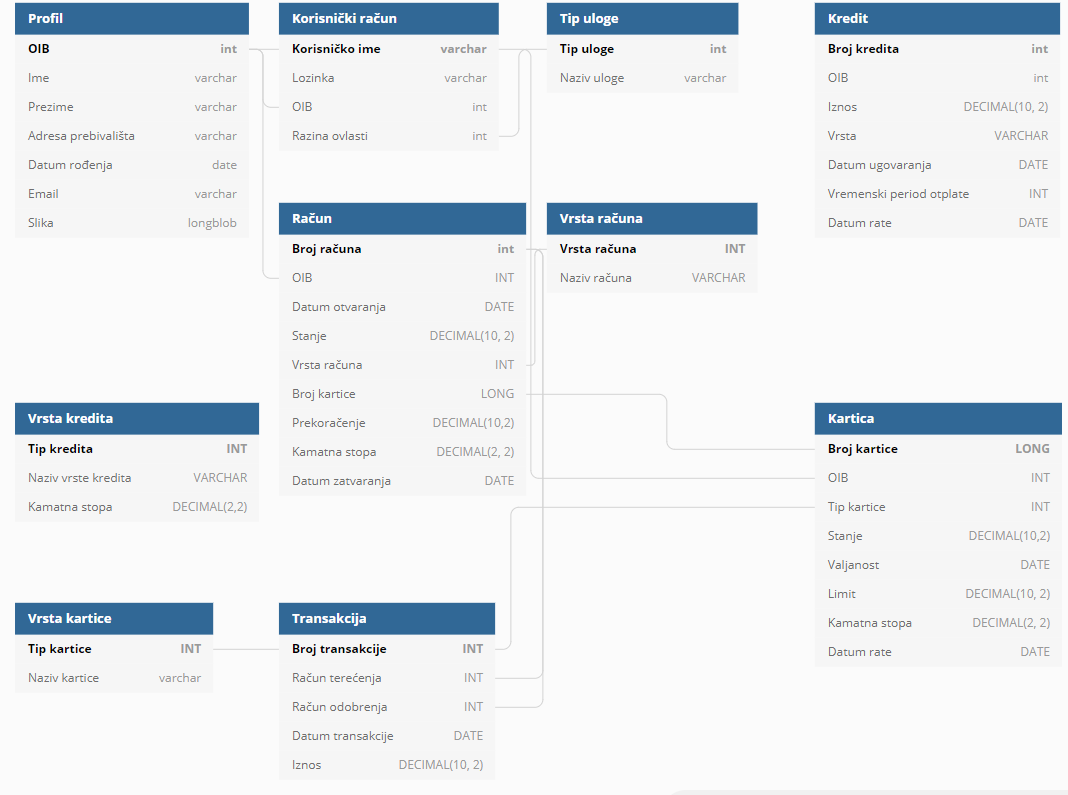
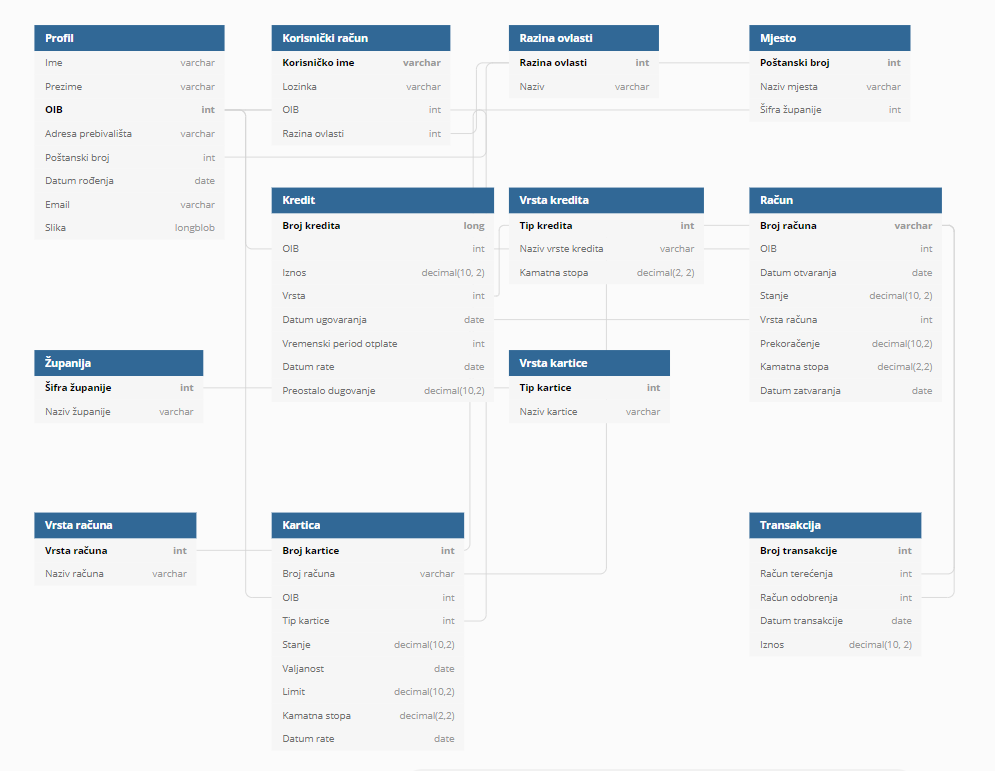
Izmijenjena baza podataka, dodane relacije mjesta i zupanije

diff --git a/dokumentacija/Arhitektura.tex b/dokumentacija/Arhitektura.tex
@@ -36,7 +36,7 @@
 			\subsection{Opis tablica}
 			
 
-				\textbf{Profil} Ovaj entitet sadrži sve važne informacije za pristup web aplikaciji. Sadrži atribute: ime, prezime, OIB, adresa prebivališta, datum rođenja, e-mail adresa i slika profila. Ovaj entitet u vezi je \textit{Zero-to-Many} s entitetom Korisnički račun preko OIB-a.  
+				\textbf{Profil} Ovaj entitet sadrži sve važne informacije za pristup web aplikaciji. Sadrži atribute: ime, prezime, OIB, adresa prebivališta, poštanski broj, datum rođenja, e-mail adresa i slika profila. Ovaj entitet u vezi je \textit{Zero-to-Many} s entitetom Korisnički račun preko OIB-a i u vezi je \textit{Many-to-One} sa entitetom Mjesto preko poštanskog broja.
 				
 				\begin{longtabu} to \textwidth {|X[6, l]|X[6, l]|X[20, l]|}
 					
@@ -53,6 +53,7 @@
 					Prezime	& VARCHAR &  prezime korisnika 	\\ \hline 
 					\rowcolor{lightgreen}OIB & INT &  OIB korisnika \\ \hline 
 					Adresa prebivališta & VARCHAR &   adresa korisnika      \\ \hline
+					Poštanski broj & INT & poštanski broj (mjesto.poštanskiBroj) \\ \hline
 					Datum rođenja & DATE & datum rođenja korisnika \\ \hline
 					Email & VARCHAR & e-mail adresa korisnika \\ \hline
 					Slika & LONGBLOB & slika korisnika \\ \hline
@@ -86,21 +87,21 @@
 	
 		
 			
-		\textbf{Tip uloge}  Ovaj entitet sadrži informacije vezane za tipove uloge. Sadrži atribute: broj tipa uloge i naziv uloge. Ovaj je entitet u vezi \textit{One-to-One} s entitetom Korisnički račun preko broja uloge.  
+		\textbf{Razina ovlasti}  Ovaj entitet sadrži informacije vezane za razinu ovlasti. Sadrži atribute: razina ovlasti i naziv. Ovaj je entitet u vezi \textit{One-to-One} s entitetom Korisnički račun preko razine ovlasti.  
 		
 		\begin{longtabu} to \textwidth {|X[6, l]|X[6, l]|X[20, l]|}
 			
-			\hline \multicolumn{3}{|c|}{\textbf{Tip uloge}}	 \\[3pt] \hline
+			\hline \multicolumn{3}{|c|}{\textbf{Razina ovlasti}}	 \\[3pt] \hline
 			\endfirsthead
 			
-			\hline \multicolumn{3}{|c|}{\textbf{Tip uloge}}	 \\[3pt] \hline
+			\hline \multicolumn{3}{|c|}{\textbf{Razina ovlasti}}	 \\[3pt] \hline
 			\endhead
 			
 			\hline 
 			\endlastfoot
 			
-		    Broj uloge & INT & Broj tipa uloge  \\ \hline
-			\cellcolor{LightGreen}Naziv & VARCHAR	& Naziv uloge	\\ \hline
+		    Razina ovlasti & INT & Broj razine ovlasti  \\ \hline
+			\cellcolor{LightGreen}Naziv & VARCHAR	& Naziv ovlasti	\\ \hline
 			
 			
 			
@@ -108,9 +109,51 @@
 			
 		\end{longtabu}
 	
+		\textbf{Mjesto} Ovaj entitet sadrži sve važne informacije o mjestu. Sadrži atribute: poštanski broj, naziv mjesta i šifra županije. U vezi je \textit{One-to-Many} s entitetom Profil preko poštanskog broja i u vezi \textit{Many-to-One} s entitetom Županija preko šifre županije.
+		\begin{longtabu} to \textwidth {|X[6, l]|X[6, l]|X[20, l]|}
+		
+		\hline \multicolumn{3}{|c|}{\textbf{Mjesto}}	 \\[3pt] \hline
+		\endfirsthead
+		
+		\hline \multicolumn{3}{|c|}{\textbf{Mjesto}}	 \\[3pt] \hline
+		\endhead
+		
+		\hline 
+		\endlastfoot
+		
+		Poštanski broj & INT & poštanski broj mjesta \\ \hline
+		Naziv mjesta & VARCHAR & naziv mjesta \\ \hline
+		Šifra županije & INT & šifra županije(županija.šifraŽupanije) \\ \hline
 		
 		
-			\textbf{Kredit}   Ovaj entitet sadrži sve važne informacije o kreditu koji klijent zatraži. Sadrži atribute: broj kredita, OIB, iznos, vrsta kredita, datum ugovaranja, vremenski period otplate kredita i datum rate. U vezi je \textit{One-to-One} s entitetom Vrsta Kredita preko vrste kredita i u vezi \textit{Many-to-One} s entitetom Profil preko OIB-a.
+		
+	\end{longtabu}
+
+
+		\textbf{Županija} Ovaj entitet sadrži sve važne informacije o županiji. Sadrži atribute: šifra županije i naziv županije. U vezi u vezi \textit{One-to-Many} s entitetom Mjesto preko šifre županije.
+		\begin{longtabu} to \textwidth {|X[6, l]|X[6, l]|X[20, l]|}
+			
+			\hline \multicolumn{3}{|c|}{\textbf{Županija}}	 \\[3pt] \hline
+			\endfirsthead
+			
+			\hline \multicolumn{3}{|c|}{\textbf{Županija}}	 \\[3pt] \hline
+			\endhead
+			
+			\hline 
+			\endlastfoot
+			
+			
+			Šifra županije & INT & šifra županije \\ \hline
+			Naziv županije & VARCHAR & naziv županije \\ \hline
+			
+			
+			
+		\end{longtabu}
+			
+				
+		
+			\textbf{Kredit}   Ovaj entitet sadrži sve važne informacije o kreditu koji klijent zatraži. Sadrži atribute: broj kredita, OIB, iznos, vrsta kredita, datum ugovaranja, vremenski period otplate kredita, datum rate i preostalo dugovanje. U vezi je \textit{One-to-One} s entitetom Vrsta Kredita preko vrste kredita i u vezi \textit{Many-to-One} s entitetom Profil preko OIB-a.
+			
 		
 		\begin{longtabu} to \textwidth {|X[6, l]|X[6, l]|X[20, l]|}
 			
@@ -126,10 +169,11 @@
 			Broj kredita & LONG & broj kredita \\ \hline
 			OIB & INT & OIB korisnika (profil.OIB)\\ \hline
 			Iznos & DECIMAL (10, 2) & iznos kredita \\ \hline
-			Vrsta & VARCHAR & vrsta kredita (vrstaKredita.tipKredita) \\ \hline
+			Vrsta & INT & vrsta kredita (vrstaKredita.tipKredita) \\ \hline
 			Datum ugovaranja & DATE & datum ugovaranja kredita \\ \hline
 			Vremenski period otplate & INT & duljina otplate kredita \\ \hline
 			Datum rate & DATE & datum plaćanja mjesečne rate \\ \hline
+			Preostalo dugovanje & DECIMAL(10,2) & preostali iznos dugovanja \\ \hline
 			
 			
 			
@@ -187,7 +231,7 @@
 				
 			\end{longtabu}
 		
-			\textbf{Račun}   Ovaj entitet sadrži sve važne informacije o računu koji ima klijent. Sadrži atribute: broj računa, OIB klijenta, datum otvaranja računa, stanje računa, vrsta računa, broj kartice, prekoračenje, kamatna stopa i datum zatvaranja. U vezi je  \textit{Many-to-One} s entitetom Profil preko OIB-a, sa entitetom Vrsta Računa \textit{One-to-One} preko vrste računa. Također je u vezi \textit{One-to-Many} s entitetom Transakcija preko broja računa i u vezi je \textit{One-to-Many} s entitetom Kartica preko broja kartice.
+			\textbf{Račun}   Ovaj entitet sadrži sve važne informacije o računu koji ima klijent. Sadrži atribute: broj računa, OIB klijenta, datum otvaranja računa, stanje računa, vrsta računa, prekoračenje, kamatna stopa i datum zatvaranja. U vezi je  \textit{Many-to-One} s entitetom Profil preko OIB-a, sa entitetom Vrsta Računa \textit{One-to-One} preko vrste računa. Također je u vezi \textit{One-to-Many} s entitetom Transakcija preko broja računa.
 		
 		\begin{longtabu} to \textwidth {|X[6, l]|X[6, l]|X[20, l]|}
 			
@@ -205,7 +249,6 @@
 			Datum otvaranja & DATE & datum otvaranja računa \\ \hline
 			Stanje & DECIMAL (10, 2) & trenutno stanje računa \\ \hline
 			Vrsta računa & INT & broj vrste računa (vrstaRačuna.vrstaRačuna) \\ \hline
-			Broj kartice & LONG & broj kartice vezane uz račun (kartica.brojKartice)\\ \hline
 			Prekoračenje & DECIMAL(10,2) & iznos prekoračenja računa \\ \hline
 			Kamatna stopa & DECIMAL(2, 2) & iznos kamatne stope \\ \hline
 			Datum zatvaranja & DATE & datum zatvaranja računa \\ \hline
@@ -238,7 +281,7 @@
 	\end{longtabu}	
 		
 		
-			\textbf{Kartica}   Ovaj entitet sadrži sve važne informacije o karticama koje ima klijent. Sadrži atribute: broj kartice, OIB, broj tipa kartice, stanje, valjanost,limit, kamatna stopa i datum rate. U vezi je \textit{Many-to-One} s entitetom Račun preko broja kartice i sa entitetom Vrsta kartice \textit{One-to-One} preko tipa kartice. 
+			\textbf{Kartica}   Ovaj entitet sadrži sve važne informacije o karticama koje ima klijent. Sadrži atribute: broj kartice, broj računa, OIB, broj tipa kartice, stanje, valjanost,limit, kamatna stopa i datum rate. U vezi je \textit{Many-to-One} s entitetom Račun preko broja računa i sa entitetom Vrsta kartice \textit{One-to-One} preko tipa kartice. 
 			
 			\begin{longtabu} to \textwidth {|X[6, l]|X[6, l]|X[20, l]|}
 				
@@ -252,6 +295,7 @@
 				\endlastfoot
 				
 				Broj kartice & INT & broj kartice\\ \hline
+				Broj računa & VARCHAR & broj računa za koji je kartica vezana (račun.brojRačuna) \\ \hline
 				OIB & INT & OIB klijenta (profil.OIB)\\ \hline
 				Tip kartice & INT & broj tipa kartice (vrstaKartice.tipKartice)\\ \hline
 				Stanje & DECIMAL(10,2) & stanje kartice\\ \hline
@@ -290,7 +334,7 @@
 			
 			\subsection{Dijagram baze podataka}
 				\begin{figure}[H]
-					\includegraphics[scale=0.75]{Slike/ermodel.PNG}
+					\includegraphics[scale=0.8]{Slike/ermodel.PNG}
 					\centering
 					\caption{E-R dijagram baze podataka}
 					\label{fig:dijagram}
